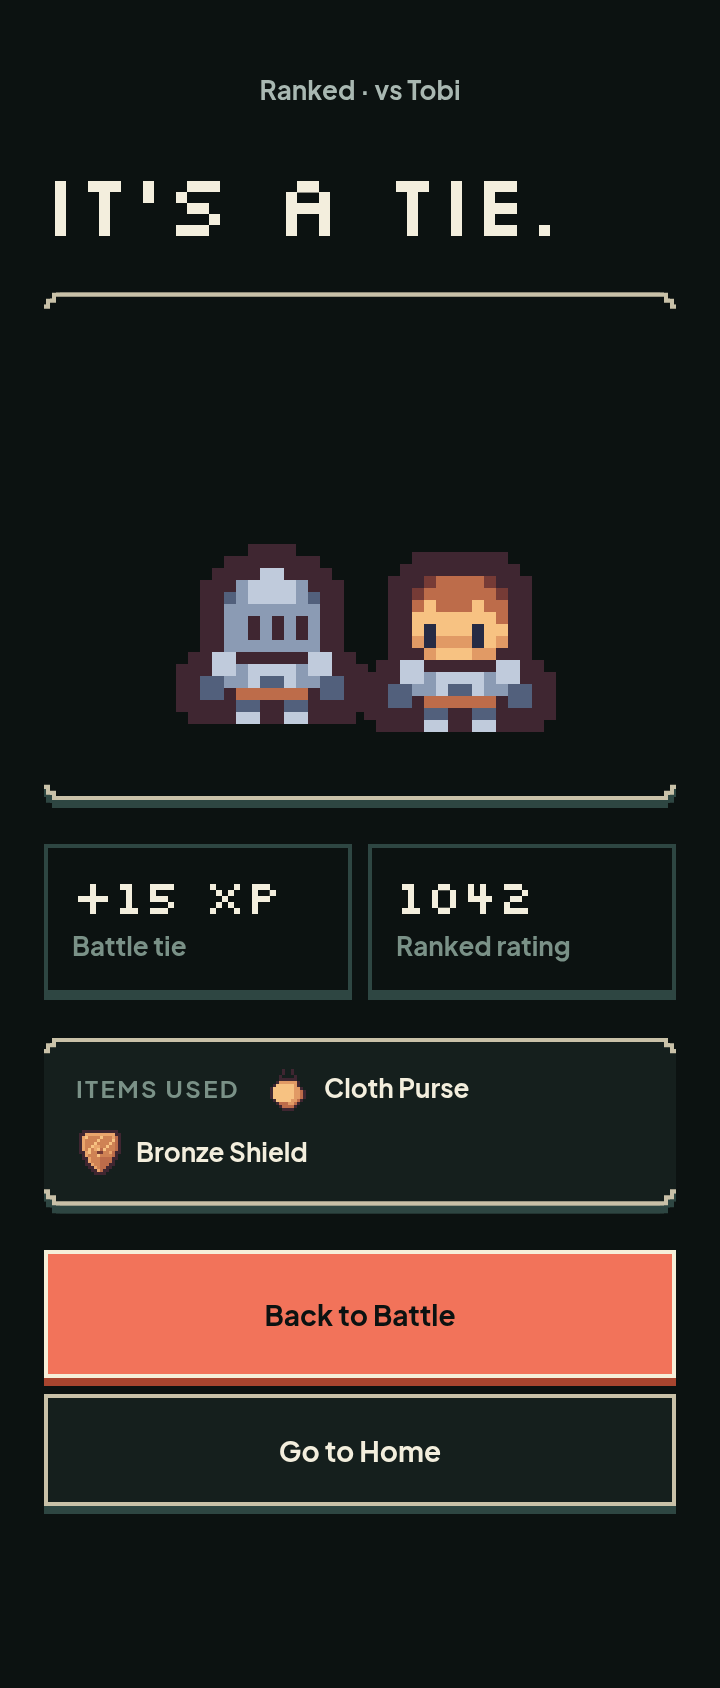
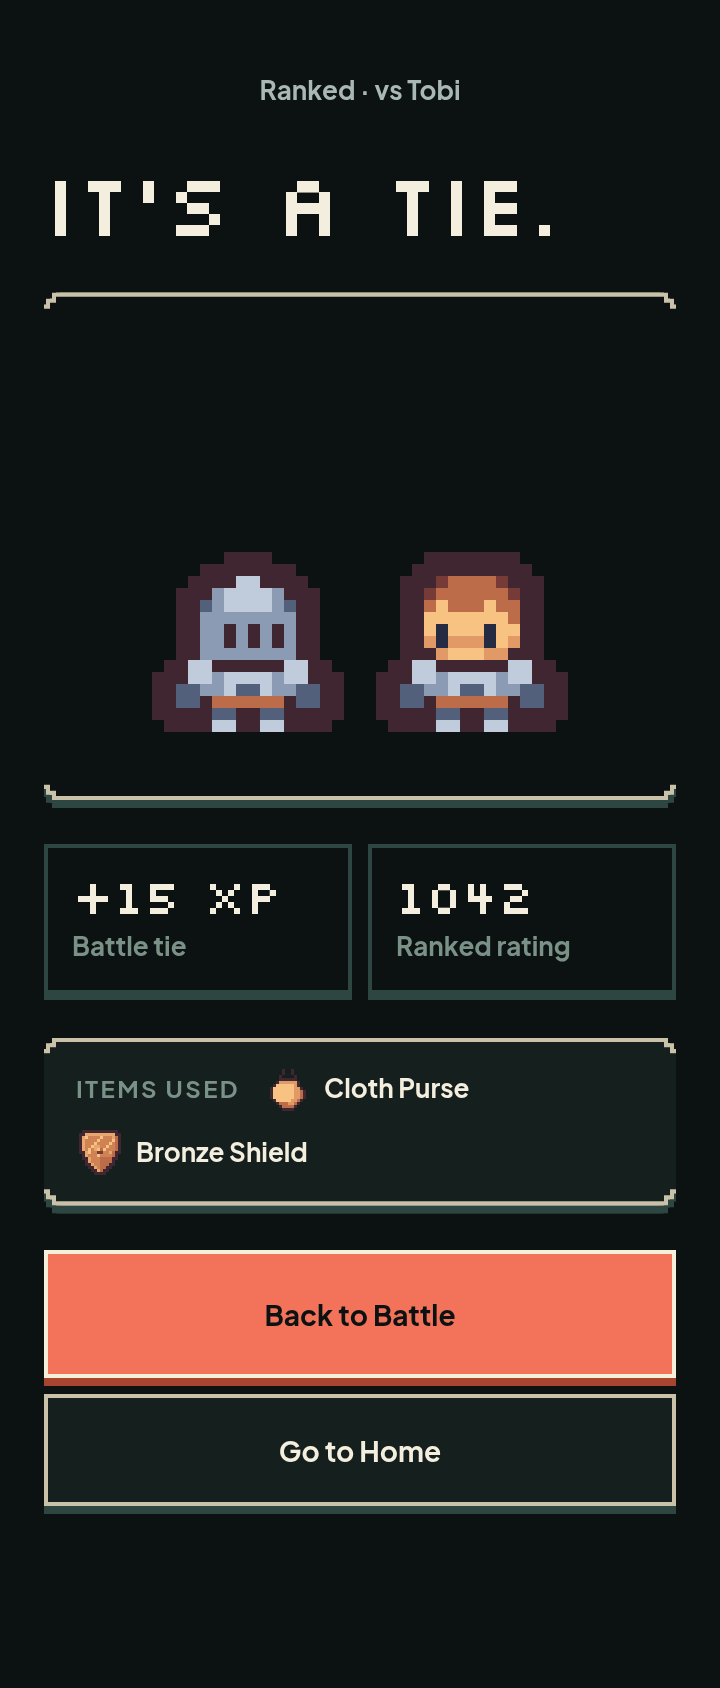
fix: centre result sprites with a gap and a shared bottom edge

Changed region(s): [[0.2139, 0.3081, 0.7944, 0.4313]]

diff --git a/src/components/battle/Arena.tsx b/src/components/battle/Arena.tsx
@@ -92,12 +92,8 @@ function Plate({
 
 export function Arena({ me, opponent, variant = 'battle', dimmed, tone = 'default' }: ArenaProps) {
   const result = variant === 'result'
-  const selfArt = result
-    ? 'absolute bottom-[36px] left-[66px]'
-    : 'absolute bottom-[40px] left-[30px]'
-  const opponentArt = result
-    ? 'absolute bottom-[32px] right-[60px]'
-    : 'absolute right-[30px] top-[20px]'
+  const selfArt = 'absolute bottom-[40px] left-[30px]'
+  const opponentArt = 'absolute right-[30px] top-[20px]'
 
   return (
     <PixelPanel
@@ -113,16 +109,33 @@ export function Arena({ me, opponent, variant = 'battle', dimmed, tone = 'defaul
             <Plate side={me} position="right-3 bottom-3" self />
           </>
         )}
-        <div
-          className={opponentArt}
-          style={{ opacity: opponent.opacity ?? 1, transform: 'scaleX(-1)' }}
-          aria-hidden
-        >
-          {opponent.art}
-        </div>
-        <div className={selfArt} style={{ opacity: me.opacity ?? 1 }} aria-hidden>
-          {me.art}
-        </div>
+        {result ? (
+          <div className="absolute inset-x-0 bottom-0 flex items-end justify-center gap-4 px-4 pb-[32px]">
+            <div className="block leading-none" style={{ opacity: me.opacity ?? 1 }} aria-hidden>
+              {me.art}
+            </div>
+            <div
+              className="block leading-none"
+              style={{ opacity: opponent.opacity ?? 1, transform: 'scaleX(-1)' }}
+              aria-hidden
+            >
+              {opponent.art}
+            </div>
+          </div>
+        ) : (
+          <>
+            <div
+              className={opponentArt}
+              style={{ opacity: opponent.opacity ?? 1, transform: 'scaleX(-1)' }}
+              aria-hidden
+            >
+              {opponent.art}
+            </div>
+            <div className={selfArt} style={{ opacity: me.opacity ?? 1 }} aria-hidden>
+              {me.art}
+            </div>
+          </>
+        )}
       </div>
     </PixelPanel>
   )

diff --git a/docs/superpowers/renders/battle/review/index.html b/docs/superpowers/renders/battle/review/index.html
@@ -186,6 +186,23 @@
   </div>
 </section>
 
+<p class="note">
+  Result sizing: winner 112px, loser 80px, tie 96px each. The pair is centred
+  with a fixed 16px gap and a shared bottom edge. The hide/show rule is the
+  result screen only; the in-battle arena is unchanged.
+</p>
+
+<section class="screen">
+  <h2>Result — AI loss</h2>
+  <p class="route">/battle/[id]/result — rival as winner, same baseline and gap</p>
+  <div class="strip">
+    <figure><figcaption>360</figcaption><img src="../after/battle-result-ai-loss@360.png" alt="AI loss at 360px"></figure>
+    <figure><figcaption>390</figcaption><img src="../after/battle-result-ai-loss@390.png" alt="AI loss at 390px"></figure>
+    <figure><figcaption>430</figcaption><img src="../after/battle-result-ai-loss@430.png" alt="AI loss at 430px"></figure>
+  </div>
+  <p class="note">The rival uses the same 112px winner / 80px loser sizing and shares the visible-foot baseline.</p>
+</section>
+
 <section class="screen">
   <h2>Audit</h2>
   <table>
@@ -194,7 +211,7 @@
     <tr><td>Targets under 44×44</td><td>none</td></tr>
     <tr><td>Minimum font</td><td>12px</td></tr>
     <tr><td>Focus</td><td>2px mint outline on every control; sheet traps focus</td></tr>
-    <tr><td>Renders</td><td>42 PNGs (14 states × 3 widths)</td></tr>
+    <tr><td>Renders</td><td>45 PNGs (15 states × 3 widths)</td></tr>
   </table>
   <p class="note">Raw audit: <code>../audit/final-audit.jsonl</code>.</p>
 </section>

diff --git a/src/lib/battle-components.test.ts b/src/lib/battle-components.test.ts
@@ -36,6 +36,10 @@ test('Arena owns both plates, meters and status labels', () => {
   assert.match(src, /YOUR MOVE/)
   assert.match(src, /OFFLINE/)
   assert.match(src, /ACTED/)
+  assert.match(src, /items-end/)
+  assert.match(src, /justify-center/)
+  assert.match(src, /gap-4/)
+  assert.match(src, /pb-\[32px\]/)
 })
 
 test('ItemSheet uses the bottom sheet and the three item states', () => {

diff --git a/src/lib/battle-ui.ts b/src/lib/battle-ui.ts
@@ -115,6 +115,7 @@ export function resultSpriteSizes(outcome: BattleResult): { me: number; opponent
   return { me: RESULT_SPRITE_SIZES.tie, opponent: RESULT_SPRITE_SIZES.tie }
 }
 
+
 export function resultCopy(outcome: BattleResult): {
   title: string
   tone: 'mint' | 'coral' | 'cream'

diff --git a/docs/superpowers/audits/2026-11-05-ui-gap-audit.md b/docs/superpowers/audits/2026-11-05-ui-gap-audit.md
@@ -665,7 +665,7 @@ The real-device pass in Nimiq Pay needs `.env.local` in the sandbox; the UI code
 | `npm run lint` | exit 0, 50 warnings, 0 errors |
 | `npm run build` | exit 0 |
 | Type floor | no `text-[10px]`/`text-[11px]` in new code |
-| Audit | 42 renders (14 states x 360/390/430): `overflowX: 0`, no wide elements, no target <44x44, min font 12, clean focus and mint outline |
+| Audit | 45 renders (15 states x 360/390/430): `overflowX: 0`, no wide elements, no target <44x44, min font 12, clean focus and mint outline |
 | Item sheet | focus trapped, Escape closes, focus returns to the trigger |
 
 ### 360 behaviour
@@ -685,13 +685,13 @@ The real-device pass in Nimiq Pay needs `.env.local` in the sandbox; the UI code
 - Result shows the current rating, not a delta; unranked/AI show the record.
 - Daily Limit has a Missions link even though the figure does not draw one.
 - AI uses the existing rival art; the handoff's robot glyph is not in `assets/glyphs.json`.
-- Result sprites now follow the winner: 112px winner, 80px loser, 96px each on a tie. The handoff drew them near-equal; this is a deliberate readability change, result screen only.
+- Result sprites now follow the winner: 112px winner, 80px loser, 96px each on a tie. The pair is centred with a fixed 16px gap and a shared bottom edge, so it cannot touch at 360. The handoff drew them near-equal; this is a deliberate readability change, result screen only.
 - Connection lost is an in-page state; polling continues.
 - The check-in gate migration is manual and still needs the live acceptance run.
 
 ### Renders
 
-42 PNGs in `docs/superpowers/renders/battle/after/` plus the Foundation 2 before pair in `docs/superpowers/renders/battle/before/`. The review page is `docs/superpowers/renders/battle/review/index.html`; raw audit is `docs/superpowers/renders/battle/audit/final-audit.jsonl`.
+45 PNGs in `docs/superpowers/renders/battle/after/` plus the Foundation 2 before pair in `docs/superpowers/renders/battle/before/`. The review page is `docs/superpowers/renders/battle/review/index.html`; raw audit is `docs/superpowers/renders/battle/audit/final-audit.jsonl`.
 
 ### Remaining
 

diff --git a/docs/superpowers/renders/battle/review/NOTES.md b/docs/superpowers/renders/battle/review/NOTES.md
@@ -103,8 +103,9 @@ Corrections:
   pre-battle rating is not persisted. Unranked and AI results show the W-L-T
   record instead.
 - Result sprites follow the winner: 112px winner, 80px loser and 96px each on
-  a tie. The handoff drew them near-equal; this is a deliberate readability
-  change and applies to the result screen only.
+  a tie. The pair is centred with a fixed 16px gap and a shared bottom edge.
+  The handoff drew them near-equal; this is a deliberate readability change
+  and applies to the result screen only.
 - The Daily Limit panel adds a `Go to Missions` link; the handoff caption asks
   for one but the figure does not draw it.
 - The AI card uses the existing rival art because the handoff's robot glyph is

diff --git a/docs/superpowers/specs/2026-11-09-battle-ui-design.md b/docs/superpowers/specs/2026-11-09-battle-ui-design.md
@@ -337,8 +337,9 @@ Above `ResultPanel`, a centered `.sv-label text-fg-muted` subline:
 
 `ResultPanel`:
 - 250px arena with viewer left and opponent right. Winner 112px (7x), loser
-  80px (5x), tie both 96px (6x). The loser is at 0.55 opacity, the winner at
-  full opacity; both full on a tie;
+  80px (5x), tie both 96px (6x). The pair is centred with a fixed 16px gap and
+  a shared bottom edge. The loser is at 0.55 opacity, the winner at full
+  opacity; both full on a tie;
 - two tiles:
   - tile 1: `+{xp} XP`, label `Battle win` / `Battle loss` / `Battle tie`;
   - tile 2: ranked `{rating}`, label `Ranked rating`; unranked/AI
